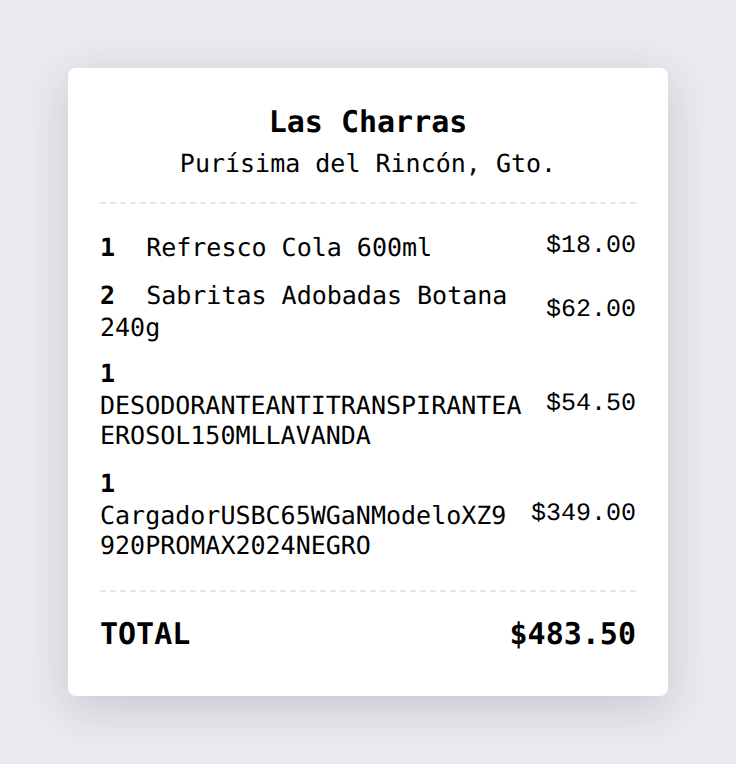
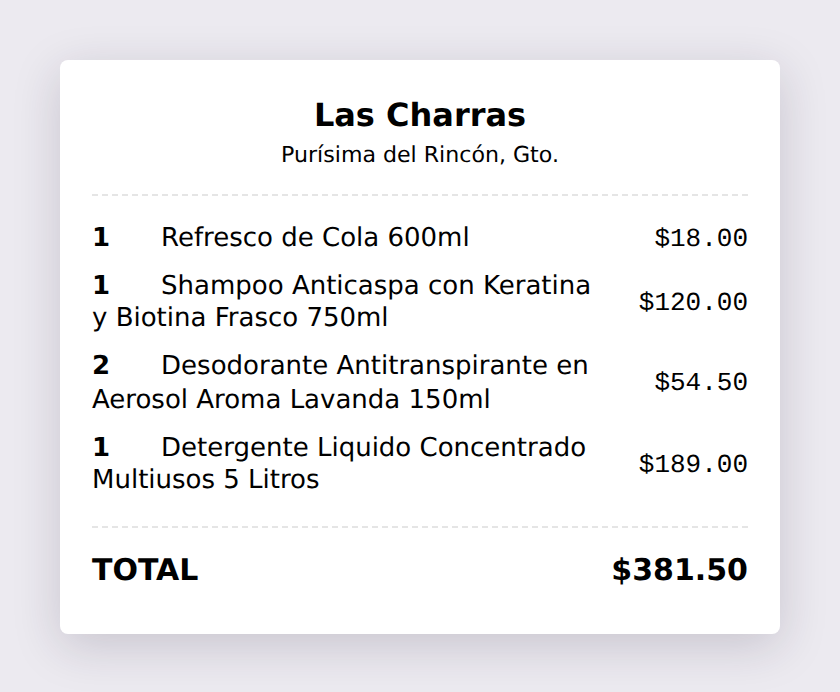
pos_ticket_full_name (18.0): reframe on product NAMES + printed ticket, add es/es_MX i18n
Sync 18.0 with the 19.0 revision: screenshots redone with realistic long
product names (cut -> full), copy reworded around names and Epson/IoT printing,
i18n (pot + es + es_MX) translating the module name/summary, Spanish block in
the store description.

Changed region(s): [[0.0625, 0.091, 0.9375, 0.9408], [0.25, 0.1214, 0.75, 0.2428], [0.125, 0.3035, 0.1562, 0.3338]]

diff --git a/pos_ticket_full_name/static/description/index.html b/pos_ticket_full_name/static/description/index.html
@@ -20,10 +20,11 @@
       <p style="margin:0;font-size:15px;line-height:1.5;">
         Odoo applies the Bootstrap class <b>text-truncate</b>
         (<i>overflow: hidden</i>) to the product name of each order line. On the
-        receipt this <b>cuts off</b> long product names &mdash; especially long
-        codes/SKUs or names with few spaces to wrap on &mdash; ending in
-        <b>&hellip;</b> or a chopped word, so neither the cashier nor the
-        customer can read the full name of what was sold.
+        <b>printed receipt</b> this <b>cuts off</b> long product names to a single
+        line ending in <b>&hellip;</b>, so neither the cashier nor the customer
+        can read the full name of what was sold. Tickets printed through an
+        <b>Epson / IoT thermal printer</b> are the most affected, because the
+        receipt is rasterised and the name stays on one line.
       </p>
     </div>
 
@@ -76,6 +77,35 @@
       <li>Odoo <b>18.0</b> Community &amp; Enterprise.</li>
       <li>Requires the <b>Point of Sale</b> app.</li>
     </ul>
+
+    <div style="margin-top:34px;border-top:2px solid #eee;padding-top:24px;">
+      <h2 style="color:#5B3F73;font-size:22px;">Español</h2>
+      <div style="background:#f6f2fa;border-left:5px solid #5B3F73;padding:16px 20px;border-radius:6px;margin-bottom:20px;">
+        <h3 style="margin:0 0 8px;color:#5B3F73;">El problema</h3>
+        <p style="margin:0;font-size:15px;line-height:1.5;">
+          Odoo aplica la clase <b>text-truncate</b> (<i>overflow: hidden</i>) al
+          nombre del producto en cada línea. En el <b>ticket impreso</b> esto
+          <b>recorta</b> los nombres largos a una sola línea terminada en
+          <b>&hellip;</b>, y ni el cajero ni el cliente pueden leer el nombre
+          completo de lo que se vendió. Los tickets impresos en una impresora
+          térmica <b>Epson / IoT</b> son los más afectados, porque el recibo se
+          convierte en imagen y el nombre queda en un solo renglón.
+        </p>
+      </div>
+      <p style="font-size:15px;line-height:1.6;margin:0 0 8px;">Con este módulo:</p>
+      <ul style="font-size:15px;line-height:1.7;margin-top:0;">
+        <li>El nombre del producto se imprime <b>completo</b>, ajustándose en
+          varias líneas.</li>
+        <li>Arregla el <b>ticket impreso</b> (Epson / IoT) y también la vista
+          previa en pantalla.</li>
+        <li>Las palabras muy largas (códigos / SKU sin espacios) también se
+          parten para que nada se recorte.</li>
+        <li>Acotado al ticket (<i>.pos-receipt</i>): el carrito en pantalla no
+          cambia.</li>
+        <li>Solo CSS: sin Python, sin datos, <b>nada que configurar</b>. Instala,
+          reabre el PdV y listo.</li>
+      </ul>
+    </div>
 
     <div style="margin-top:30px;padding:18px;background:#5B3F73;border-radius:8px;color:#fff;text-align:center;">
       <span style="font-size:16px;">Built by <b>XUBAX</b> &middot;

diff --git a/pos_ticket_full_name/__manifest__.py b/pos_ticket_full_name/__manifest__.py
@@ -7,26 +7,27 @@
 POS Receipt – Full Product Name
 ===============================
 
-Odoo applies the Bootstrap class ``text-truncate`` to the product name of each
-order line (``overflow: hidden``). On the **POS receipt** this cuts off long
-product names — especially long codes/SKUs or names with few spaces to wrap on —
-so the printed ticket ends in ``…`` or a chopped word and neither the cashier
-nor the customer can read the full name of what was sold.
+Odoo applies the Bootstrap class ``text-truncate`` (``overflow: hidden``) to the
+product name of each POS order line. On the **printed receipt** long product
+names are **cut off** — the ticket shows only the start of the name followed by
+``…`` — so neither the cashier nor the customer can read the full name of what
+was sold. Tickets printed as an image through an **Epson / IoT thermal printer**
+are the most affected, because the receipt is rasterised and the name stays on a
+single line.
 
-This module adds a small stylesheet to the Point of Sale receipt so that,
-**inside the receipt only**, the product name is **always printed in full**,
-wrapping onto as many lines as needed. Very long words (SKUs, codes) are broken
-so they never overflow the paper width and nothing is ever clipped.
+This module adds a small stylesheet to the Point of Sale receipt so that the
+product name is **always printed in full**, wrapping onto as many lines as
+needed. Over-long words (codes / SKUs) are also broken so nothing is ever
+clipped, on the printed ticket and in its on-screen preview alike.
 
 Key points
 ----------
-* The full product name is **always printed**, wrapping to several lines.
-* Long codes / names without spaces are broken instead of being cut off.
+* Long product names are **printed complete**, wrapping to several lines.
+* Fixes the printed ticket (Epson / IoT raster) as well as the on-screen preview.
+* Over-long words (codes / SKUs without spaces) are broken instead of cut.
 * Scoped to the receipt (``.pos-receipt``): the on-screen cart keeps its
   compact, truncated look.
 * Pure CSS — no Python, no data, **nothing to configure**. Install and print.
-* Works with any receipt printer (the change is in the receipt markup, so it
-  applies to the on-screen preview and to the printed ticket alike).
 
 Compatibility
 -------------

diff --git a/pos_ticket_full_name/README.rst b/pos_ticket_full_name/README.rst
@@ -12,24 +12,26 @@ The problem
 -----------
 
 Odoo applies the Bootstrap class ``text-truncate`` (``overflow: hidden``) to the
-product name of each order line. On the **POS receipt** that clips long product
-names — especially long codes/SKUs or names with few spaces to wrap on. The
-result is receipts that read like::
+product name of each order line. On the **printed receipt** that clips long
+product names to a single line, so the ticket reads like::
 
-    1  DESODORANTEANTITRANSPIRA…           $54.50
+    1  Shampoo Anticaspa con Keratin…      $120.00
 
-so neither the cashier nor the customer can read the full product name.
+and neither the cashier nor the customer can read the full product name. Tickets
+printed as an image through an **Epson / IoT thermal printer** are the most
+affected, because the receipt is rasterised and the name stays on one line.
 
 What this module does
 ---------------------
 
 * Prints the product name **in full**, wrapping onto as many lines as needed::
 
-      1  DESODORANTEANTITRANSPIRANTE      $54.50
-         AEROSOL150MLLAVANDA
+      1  Shampoo Anticaspa con           $120.00
+         Keratina y Biotina Frasco 750ml
 
-* Long codes / names without spaces are broken so they never overflow the paper
-  width and nothing is ever clipped.
+* Fixes the printed ticket (Epson / IoT raster) as well as the on-screen preview.
+* Over-long words (codes / SKUs without spaces) are also broken so nothing is
+  ever clipped.
 * The fix is **scoped to the receipt** (``.pos-receipt``): the on-screen cart
   keeps its compact, truncated look, where space is limited.
 * **Pure CSS** — no Python, no data, nothing to configure.
